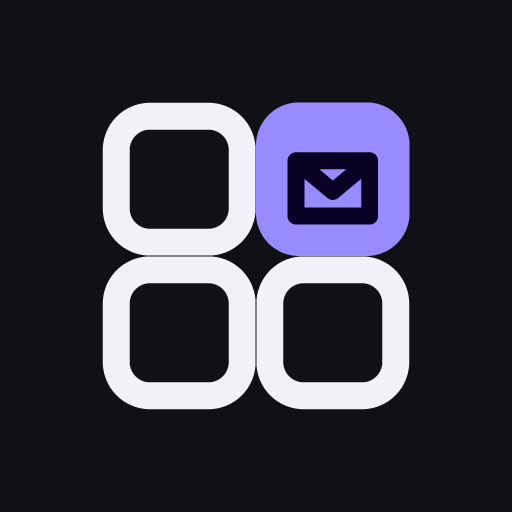
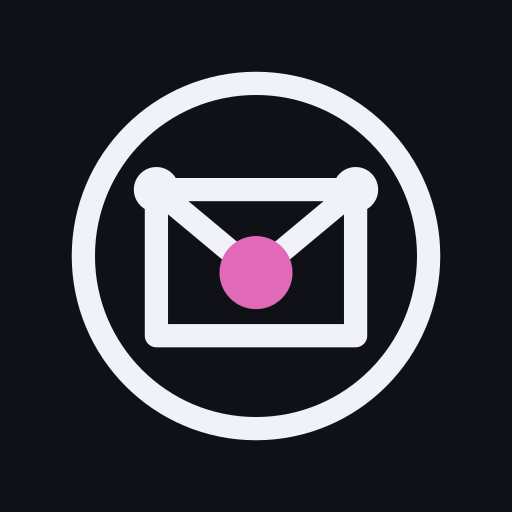
PST-T-18.1: Postroom wears the D3 Cloud family mark (DI-REQ-040)
The sorting rack of PST-T-16.10 (PST-DA-055) is replaced by the family mark from d3cloud.io,
concept "Envelope": the planisphere's ring, an envelope inside it with joints where the flap
meets the body, and one lit star (#E06AB8) where the flap points. Ink is currentColor at the
site's weights (3.5 / 3.4 / 5.5 below 72px, 2.2 / 2.6 / 4.4 at 72px and up); the star's hex is
defined once with a d3-allow reason. PostroomMark keeps its API and gains className.

- Shell: AppShellBrand paints its mark slot with the accent, so the shell's mark carries
  .pr-brand-mark (places.css) to ink it in --color-fg. The entry shell already inherits fg.
- favicon.svg: the same drawing at icon weight, ink #101117 / #f0f2f7 by prefers-color-scheme,
  star fixed. Checked under the production CSP (style-src 'self') in Chromium and WebKit as an
  image: the inline <style> applies in both schemes.
- apple-touch-icon, icon-192/512 and the maskable icon re-rendered from the same drawing on the
  dark ground (rsvg-convert; maskable ring inside the 40% safe zone).
- brand.test.ts asserts the family geometry, weights, single star colour, the shell's ink class
  and the favicon; entry.test.ts follows the new svg markup.

Changed region(s): [[0.125, 0.125, 0.875, 0.875]]

diff --git a/apps/web/test/unit/brand.test.ts b/apps/web/test/unit/brand.test.ts
@@ -1,11 +1,12 @@
 // PST-T-16.10 (PST-DA-055): a Postroom-specific mark in the shell brand, on the sign-in card and
-// as the favicon, and one positioning line under the sign-in heading.
+// as the favicon, and one positioning line under the sign-in heading. PST-T-18.1 (DI-REQ-040): the
+// mark is now the D3 Cloud family mark, concept Envelope, as d3cloud.io draws it.
 import { createElement } from 'react';
 import { renderToStaticMarkup } from 'react-dom/server';
 import { describe, expect, it } from 'vitest';
 import { readFileSync } from 'node:fs';
 import { join } from 'node:path';
-import { PostroomMark } from '../../src/brand/PostroomMark';
+import { POSTROOM_STAR, PostroomMark } from '../../src/brand/PostroomMark';
 
 const WEB = join(__dirname, '../..');
 const read = (path: string) => readFileSync(join(WEB, path), 'utf8');
@@ -25,11 +26,43 @@ describe('PostroomMark', () => {
     expect(html).not.toContain('aria-label');
   });
 
-  it('is drawn on D3 tokens, with no raw colour', () => {
+  // PST-T-18.1 (DI-REQ-040): the family mark — the planisphere's ring with the Envelope inside it,
+  // as d3cloud.io draws it.
+  it('is the family mark: the ring, the envelope, two joints and the lit star where the flap points', () => {
     const html = renderToStaticMarkup(createElement(PostroomMark));
-    expect(html).toContain('var(--color-accent)');
-    expect(html).toContain('var(--color-fg)');
-    expect(html).not.toMatch(/#[0-9a-f]{3,8}\b/i);
+    expect(html).toContain('viewBox="0 0 64 64"');
+    expect(html).toMatch(/<circle cx="32" cy="32" r="26"/);
+    expect(html).toContain('d="M17 22 H47 V44 H17 Z"');
+    expect(html).toContain('d="M17 22 L32 34.5 L47 22"');
+    expect(html).toMatch(/<circle cx="17" cy="22" r="3.4" fill="currentColor"/);
+    expect(html).toMatch(/<circle cx="47" cy="22" r="3.4" fill="currentColor"/);
+    expect(html).toMatch(/<circle cx="32" cy="34.5" r="5.5" style="fill:#E06AB8"/);
+  });
+
+  it('inks in the text colour, and its one colour is the lit star', () => {
+    const html = renderToStaticMarkup(createElement(PostroomMark));
+    expect(html).toContain('stroke="currentColor"');
+    expect(html).not.toContain('var(--color-accent)');
+    expect([...new Set(html.match(/#[0-9a-f]{3,8}\b/gi))]).toEqual([POSTROOM_STAR]);
+    expect(POSTROOM_STAR).toBe('#E06AB8');
+  });
+
+  it('draws the site\'s icon weight below 72px and the finer display weight at 72px and up', () => {
+    const icon = renderToStaticMarkup(createElement(PostroomMark, { size: 28 }));
+    expect(icon).toContain('stroke-width="3.5"');
+    expect(icon).toMatch(/r="3.4"/);
+    expect(icon).toMatch(/r="5.5"/);
+    const display = renderToStaticMarkup(createElement(PostroomMark, { size: 72 }));
+    expect(display).toContain('stroke-width="2.2"');
+    expect(display).toMatch(/r="2.6"/);
+    expect(display).toMatch(/r="4.4"/);
+    expect(display).not.toContain('stroke-width="3.5"');
+  });
+
+  it('defines the star colour once, with its reason', () => {
+    const src = read('src/brand/PostroomMark.tsx');
+    expect(src.match(/#E06AB8/g)).toHaveLength(1);
+    expect(src).toMatch(/\/\/ d3-allow: .*DI-REQ-040.*\n.*#E06AB8/);
   });
 });
 
@@ -39,6 +72,15 @@ describe('where the mark is used', () => {
     const brand = /<AppShellBrand[^>]*>/.exec(shell)?.[0] ?? '';
     expect(brand).toContain('PostroomMark');
     expect(brand).not.toContain('MailIcon');
+  });
+
+  // PST-T-18.1: AppShellBrand paints its mark slot with the accent; the family mark's ink is the
+  // text colour, so the shell's mark carries a class that sets it back.
+  it('the shell brand inks the mark in the text colour, not the accent', () => {
+    const shell = read('src/screens/Shell.tsx');
+    expect(shell).toContain('mark={<PostroomMark decorative className="pr-brand-mark" />}');
+    expect(read('src/styles/places.css')).toMatch(/\.pr-brand-mark \{\s*color: var\(--color-fg\);\s*\}/);
+    expect(shell).toContain("import '../styles/places.css';");
   });
 
   // PST-T-17.17: the sign-in card became the split entry shell; the mark sits beside the name in
@@ -56,10 +98,20 @@ describe('favicon', () => {
     expect(read('index.html')).toMatch(/<link rel="icon" type="image\/svg\+xml" href="\/favicon\.svg"/);
   });
 
-  it('is the same mark with light and dark colours chosen by prefers-color-scheme', () => {
+  it('is the same drawing, at icon weight, with the ink chosen by prefers-color-scheme and the star fixed', () => {
     const svg = read('public/favicon.svg');
-    expect(svg).toContain('prefers-color-scheme: dark');
-    expect(svg).toContain('#5432be'); // --color-accent, light
-    expect(svg).toContain('#978cff'); // --color-accent, dark
+    expect(svg).toContain('viewBox="0 0 64 64"');
+    expect(svg).toContain('<circle cx="32" cy="32" r="26" />');
+    expect(svg).toContain('d="M17 22 H47 V44 H17 Z"');
+    expect(svg).toContain('d="M17 22 L32 34.5 L47 22"');
+    expect(svg).toContain('stroke-width="3.5"');
+    expect(svg).toMatch(/class="joint" cx="17" cy="22" r="3.4"/);
+    expect(svg).toMatch(/class="joint" cx="47" cy="22" r="3.4"/);
+    expect(svg).toMatch(/class="star" cx="32" cy="34.5" r="5.5"/);
+    const [light, dark] = svg.split('prefers-color-scheme: dark');
+    expect(light).toContain('.ink { stroke: #101117; }'); // --color-fg, light
+    expect(dark).toContain('.ink { stroke: #f0f2f7; }'); // --color-fg, dark
+    expect(light).toContain(`.star { fill: ${POSTROOM_STAR}; }`);
+    expect(dark).not.toContain('.star');
   });
 });

diff --git a/apps/web/src/brand/PostroomMark.tsx b/apps/web/src/brand/PostroomMark.tsx
@@ -1,42 +1,53 @@
-// PST-T-16.10 (PST-DA-055): the Postroom mark. A postroom is where mail is sorted, so the mark is a
-// sorting rack: four pigeonholes, one of them filled with the accent and holding a folded letter.
-// Drawn on D3 tokens (--color-fg for the empty holes, --color-accent for the filled one) so it
-// follows both themes. public/favicon.svg is the same drawing with fixed colours.
+// PST-T-18.1: the Postroom mark is the D3 Cloud family mark (DI-REQ-040), concept "Envelope", ported
+// from d3cloud.io's ProductMark. It replaces the sorting rack of PST-T-16.10 (PST-DA-055) — four
+// pigeonholes with one filled in the accent — so Postroom reads as one of the family beside Bindery,
+// D3 Auth, Foreman and Shipyard: every product keeps the planisphere's ring, and inside it ink lines
+// with round joints and exactly one lit star in the product's own colour. Here an envelope sits in
+// the ring, joints where the flap meets the body, and the lit star where the flap points.
+//
+// The ink is currentColor, so the mark takes the text colour in either theme — a call site inside a
+// slot that paints the accent (AppShellBrand's mark slot does) sets the text colour back with a class.
+// The star is the only colour. public/favicon.svg is the same drawing at icon weight, with the ink
+// fixed per scheme.
 
 export const POSTROOM_MARK_NAME = 'Postroom';
 
+// d3-allow: the product's lit star from d3cloud.io (DI-REQ-040) — a brand constant, the same in both themes, not a theme colour
+export const POSTROOM_STAR = '#E06AB8';
+
 export interface PostroomMarkProps {
-  /** Rendered width and height in px. */
+  /** Rendered width and height in px. At 72 and above the lines are drawn finer, as on the site. */
   size?: number;
   /**
    * Set when the word "Postroom" is written beside the mark, so a screen reader does not read it
    * twice. Left off, the mark stands alone and is announced as an image named "Postroom".
    */
   decorative?: boolean;
+  className?: string;
 }
 
-export function PostroomMark({ size = 20, decorative = false }: PostroomMarkProps) {
+export function PostroomMark({ size = 20, decorative = false, className }: PostroomMarkProps) {
+  // The site's two weights: heavier at icon sizes, finer at display sizes.
+  const display = size >= 72;
+  const w = display ? 2.2 : 3.5;
+  const joint = display ? 2.6 : 3.4;
+  const lit = display ? 4.4 : 5.5;
+  const ink = { stroke: 'currentColor', strokeWidth: w, strokeLinecap: 'round', strokeLinejoin: 'round' } as const;
   return (
     <svg
-      viewBox="0 0 24 24"
       width={size}
       height={size}
+      viewBox="0 0 64 64"
       fill="none"
+      className={className}
       {...(decorative ? { 'aria-hidden': true } : { role: 'img', 'aria-label': POSTROOM_MARK_NAME })}
     >
-      <g style={{ stroke: 'var(--color-fg)' }} strokeWidth="1.75">
-        <rect x="2.9" y="2.9" width="8.2" height="8.2" rx="2.2" />
-        <rect x="2.9" y="12.9" width="8.2" height="8.2" rx="2.2" />
-        <rect x="12.9" y="12.9" width="8.2" height="8.2" rx="2.2" />
-      </g>
-      <rect x="12" y="2" width="10" height="10" rx="2.8" style={{ fill: 'var(--color-accent)' }} />
-      <path
-        d="m14.6 5.8 2.4 2 2.4-2M14.6 5.8h4.8v3.6h-4.8z"
-        style={{ stroke: 'var(--color-accent-contrast)' }}
-        strokeWidth="1.1"
-        strokeLinecap="round"
-        strokeLinejoin="round"
-      />
+      <circle cx="32" cy="32" r="26" {...ink} />
+      <path d="M17 22 H47 V44 H17 Z" {...ink} />
+      <path d="M17 22 L32 34.5 L47 22" {...ink} />
+      <circle cx="17" cy="22" r={joint} fill="currentColor" />
+      <circle cx="47" cy="22" r={joint} fill="currentColor" />
+      <circle cx="32" cy="34.5" r={lit} style={{ fill: POSTROOM_STAR }} />
     </svg>
   );
 }

diff --git a/apps/web/test/unit/entry.test.ts b/apps/web/test/unit/entry.test.ts
@@ -60,7 +60,7 @@ describe('EntryShell', () => {
     expect(count(html, /class="pr-entry__brand"/g)).toBe(1);
     expect(count(html, /class="pr-entry__brand pr-entry__brand--compact"/g)).toBe(1);
     // Decorative beside the word, so a screen reader hears "Postroom" once per brand.
-    expect(count(html, /<svg viewBox="0 0 24 24" width="28" height="28" fill="none" aria-hidden="true">/g)).toBe(2);
+    expect(count(html, /<svg width="28" height="28" viewBox="0 0 64 64" fill="none" aria-hidden="true">/g)).toBe(2);
   });
 
   it('draws a decorative, tokens-only illustration', () => {

diff --git a/apps/web/src/styles/places.css b/apps/web/src/styles/places.css
@@ -13,6 +13,12 @@
   animation: pr-place-in var(--dur-2) var(--ease-out) backwards;
 }
 
+/* PST-T-18.1: the shell's brand mark. AppShellBrand paints its mark slot with the accent, but the
+ * family mark's ink is the text colour — its one colour is its own lit star (DI-REQ-040). */
+.pr-brand-mark {
+  color: var(--color-fg);
+}
+
 /* Quiet counts: the sorted buckets and Junk / Rejects say how many without shouting — the same
  * recipe as @d3cloud/ui's CountBadge `quiet`, which SideNavItem does not expose. */
 .pr-nav-quiet .d3-bdg--count {

diff --git a/apps/web/src/screens/Shell.tsx b/apps/web/src/screens/Shell.tsx
@@ -729,7 +729,7 @@ export function Shell({ state, onSignedOut }: { state: AuthState; onSignedOut: (
         navTone="recessed"
         storageKey="postroom-shell"
         brand={
-          <AppShellBrand asChild name="Postroom" mark={<PostroomMark decorative />}>
+          <AppShellBrand asChild name="Postroom" mark={<PostroomMark decorative className="pr-brand-mark" />}>
             <RouterLink to="/" />
           </AppShellBrand>
         }
